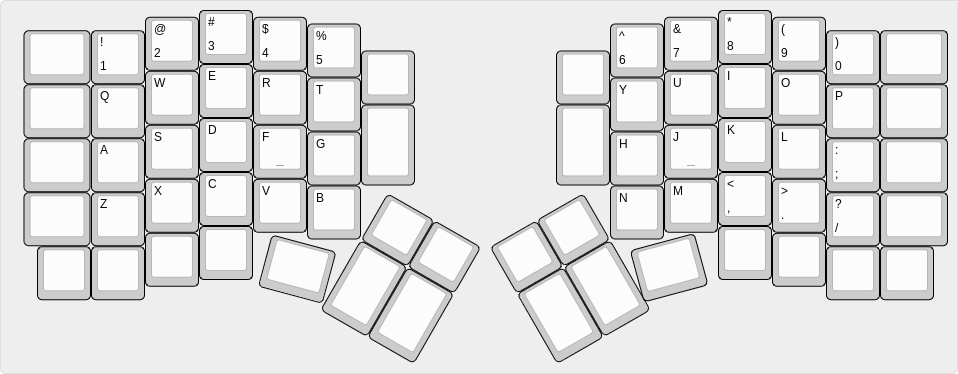
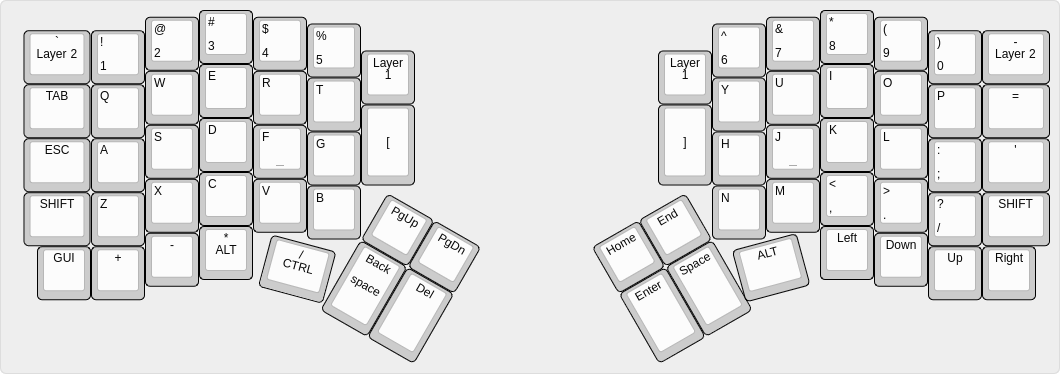
Updated layout with default mappings

Changed region(s): [[0.0, 0.0294, 0.999, 0.9706], [0.9687, 0.3529, 0.999, 0.4706], [0.9687, 0.2059, 0.999, 0.3235]]

diff --git a/README.md b/README.md
@@ -253,7 +253,7 @@ To lower the build costs I designed a 3D printable case which you can find in th
 <img src="img/redox-layout.png" alt="Redox rev1.0 layout"/>
 </p>
 
-[KLE Layout permalink](http://www.keyboard-layout-editor.com/##@_name=Redox&author=Mattia%20Dal%20Ben&switchMount=cherry&plate:false&pcb:false%3B&@_x:3.5%3B&=%23%0A3&_x:10.5%3B&=*%0A8%3B&@_y:-0.875&x:2.5%3B&=%2F@%0A2&_x:1%3B&=$%0A4&_x:8.5%3B&=%2F&%0A7&_x:1%3B&=(%0A9%3B&@_y:-0.875&x:5.5%3B&=%25%0A5&_x:6.5%3B&=%5E%0A6%3B&@_y:-0.875&x:0.25&a:7&w:1.25%3B&=&_a:4%3B&=!%0A1&_x:14.5%3B&=)%0A0&_a:7&w:1.25%3B&=%3B&@_y:-0.625&x:6.5%3B&=&_x:4.5%3B&=%3B&@_y:-0.75&x:3.5&a:4%3B&=E&_x:10.5%3B&=I%3B&@_y:-0.875&x:2.5%3B&=W&_x:1%3B&=R&_x:8.5%3B&=U&_x:1%3B&=O%3B&@_y:-0.875&x:5.5%3B&=T&_x:6.5%3B&=Y%3B&@_y:-0.875&x:0.25&a:7&w:1.25%3B&=&_a:4%3B&=Q&_x:14.5%3B&=P&_a:7&w:1.25%3B&=%3B&@_y:-0.625&x:6.5&h:1.5%3B&=&_x:4.5&h:1.5%3B&=%3B&@_y:-0.75&x:3.5&a:4%3B&=D&_x:10.5%3B&=K%3B&@_y:-0.875&x:2.5%3B&=S&_x:1&n:true%3B&=F&_x:8.5&n:true%3B&=J&_x:1%3B&=L%3B&@_y:-0.875&x:5.5%3B&=G&_x:6.5%3B&=H%3B&@_y:-0.875&x:0.25&a:7&w:1.25%3B&=&_a:4%3B&=A&_x:14.5%3B&=%2F:%0A%2F%3B&_a:7&w:1.25%3B&=%3B&@_y:-0.375&x:3.5&a:4%3B&=C&_x:10.5%3B&=%3C%0A,%3B&@_y:-0.875&x:2.5%3B&=X&_x:1%3B&=V&_x:8.5%3B&=M&_x:1%3B&=%3E%0A.%3B&@_y:-0.875&x:5.5%3B&=B&_x:6.5%3B&=N%3B&@_y:-0.875&x:0.25&a:7&w:1.25%3B&=&_a:4%3B&=Z&_x:14.5%3B&=%3F%0A%2F%2F&_a:7&w:1.25%3B&=%3B&@_y:-0.375&x:3.5%3B&=&_x:10.5%3B&=%3B&@_y:-0.875&x:2.5%3B&=&_x:12.5%3B&=%3B&@_y:-0.75&x:0.5%3B&=&=&_x:14.5%3B&=&=%3B&@_r:15&y:-2.625&x:5.75&w:1.25%3B&=%3B&@_r:30&rx:6.5&ry:4.25&y:-1%3B&=&=%3B&@_h:1.5%3B&=&_h:1.5%3B&=%3B&@_r:-30&rx:13&y:-1&x:-2%3B&=&=%3B&@_x:-2&h:1.5%3B&=&_h:1.5%3B&=%3B&@_r:-15&rx:0&ry:0&y:7.75&x:11.75&w:1.25%3B&=)
+[KLE Layout permalink](http://www.keyboard-layout-editor.com/##@_name=Redox&author=Mattia%20Dal%20Ben&switchMount=cherry&plate:false&pcb:false%3B&@_x:3.5%3B&=%23%0A3&_x:10.5%3B&=*%0A8%3B&@_y:-0.875&x:2.5%3B&=%2F@%0A2&_x:1%3B&=$%0A4&_x:8.5%3B&=%2F&%0A7&_x:1%3B&=(%0A9%3B&@_y:-0.875&x:5.5%3B&=%25%0A5&_x:6.5%3B&=%5E%0A6%3B&@_y:-0.875&x:0.25&a:5&w:1.25%3B&=%60%0A%0A%0A%0A%0A%0ALayer%202&_a:4%3B&=!%0A1&_x:14.5%3B&=)%0A0&_a:5&w:1.25%3B&=-%0A%0A%0A%0A%0A%0ALayer%202%3B&@_y:-0.625&x:6.5%3B&=Layer%201&_x:4.5%3B&=Layer%201%3B&@_y:-0.75&x:3.5&a:4%3B&=E&_x:10.5%3B&=I%3B&@_y:-0.875&x:2.5%3B&=W&_x:1%3B&=R&_x:8.5%3B&=U&_x:1%3B&=O%3B&@_y:-0.875&x:5.5%3B&=T&_x:6.5%3B&=Y%3B&@_y:-0.875&x:0.25&a:5&w:1.25%3B&=TAB&_a:4%3B&=Q&_x:14.5%3B&=P&_a:5&w:1.25%3B&=%2F=%3B&@_y:-0.625&x:6.5&a:7&h:1.5%3B&=%5B&_x:4.5&h:1.5%3B&=%5D%3B&@_y:-0.75&x:3.5&a:4%3B&=D&_x:10.5%3B&=K%3B&@_y:-0.875&x:2.5%3B&=S&_x:1&n:true%3B&=F&_x:8.5&n:true%3B&=J&_x:1%3B&=L%3B&@_y:-0.875&x:5.5%3B&=G&_x:6.5%3B&=H%3B&@_y:-0.875&x:0.25&a:5&w:1.25%3B&=ESC&_a:4%3B&=A&_x:14.5%3B&=%2F:%0A%2F%3B&_a:5&w:1.25%3B&='%3B&@_y:-0.375&x:3.5&a:4%3B&=C&_x:10.5%3B&=%3C%0A,%3B&@_y:-0.875&x:2.5%3B&=X&_x:1%3B&=V&_x:8.5%3B&=M&_x:1%3B&=%3E%0A.%3B&@_y:-0.875&x:5.5%3B&=B&_x:6.5%3B&=N%3B&@_y:-0.875&x:0.25&a:5&w:1.25%3B&=SHIFT&_a:4%3B&=Z&_x:14.5%3B&=%3F%0A%2F%2F&_a:5&w:1.25%3B&=SHIFT%3B&@_y:-0.375&x:3.5%3B&=*%0A%0A%0A%0A%0A%0AALT&_x:10.5%3B&=Left%3B&@_y:-0.875&x:2.5%3B&=-&_x:12.5%3B&=Down%3B&@_y:-0.75&x:0.5%3B&=GUI&=+&_x:14.5%3B&=Up&=Right%3B&@_r:15&y:-2.625&x:5.75&w:1.25%3B&=%2F%2F%0A%0A%0A%0A%0A%0ACTRL%3B&@_r:30&rx:6.5&ry:4.25&y:-1%3B&=PgUp&=PgDn%3B&@_h:1.5%3B&=Back%0A%0A%0A%0A%0A%0Aspace&_h:1.5%3B&=Del%3B&@_r:-30&rx:13&y:-1&x:-2%3B&=Home&=End%3B&@_x:-2&h:1.5%3B&=Enter&_h:1.5%3B&=Space%3B&@_r:-15&rx:0&ry:0&y:7.75&x:11.75&w:1.25%3B&=ALT)
 
 #### Rev 1.1 layout
 
@@ -265,5 +265,5 @@ This layout was designed to reduce the amount of 1.25 keycaps needed for the key
 This layout is only available for the [Redox handwire version](https://www.thingiverse.com/thing:2704567) ... for now.
 
 <p align="center">
-<img src="img/1u-layout.png" alt="Redox rev1.1 layout"/>
+<img src="img/redox-layout-1.1.png" alt="Redox rev1.1 layout"/>
 </p>
